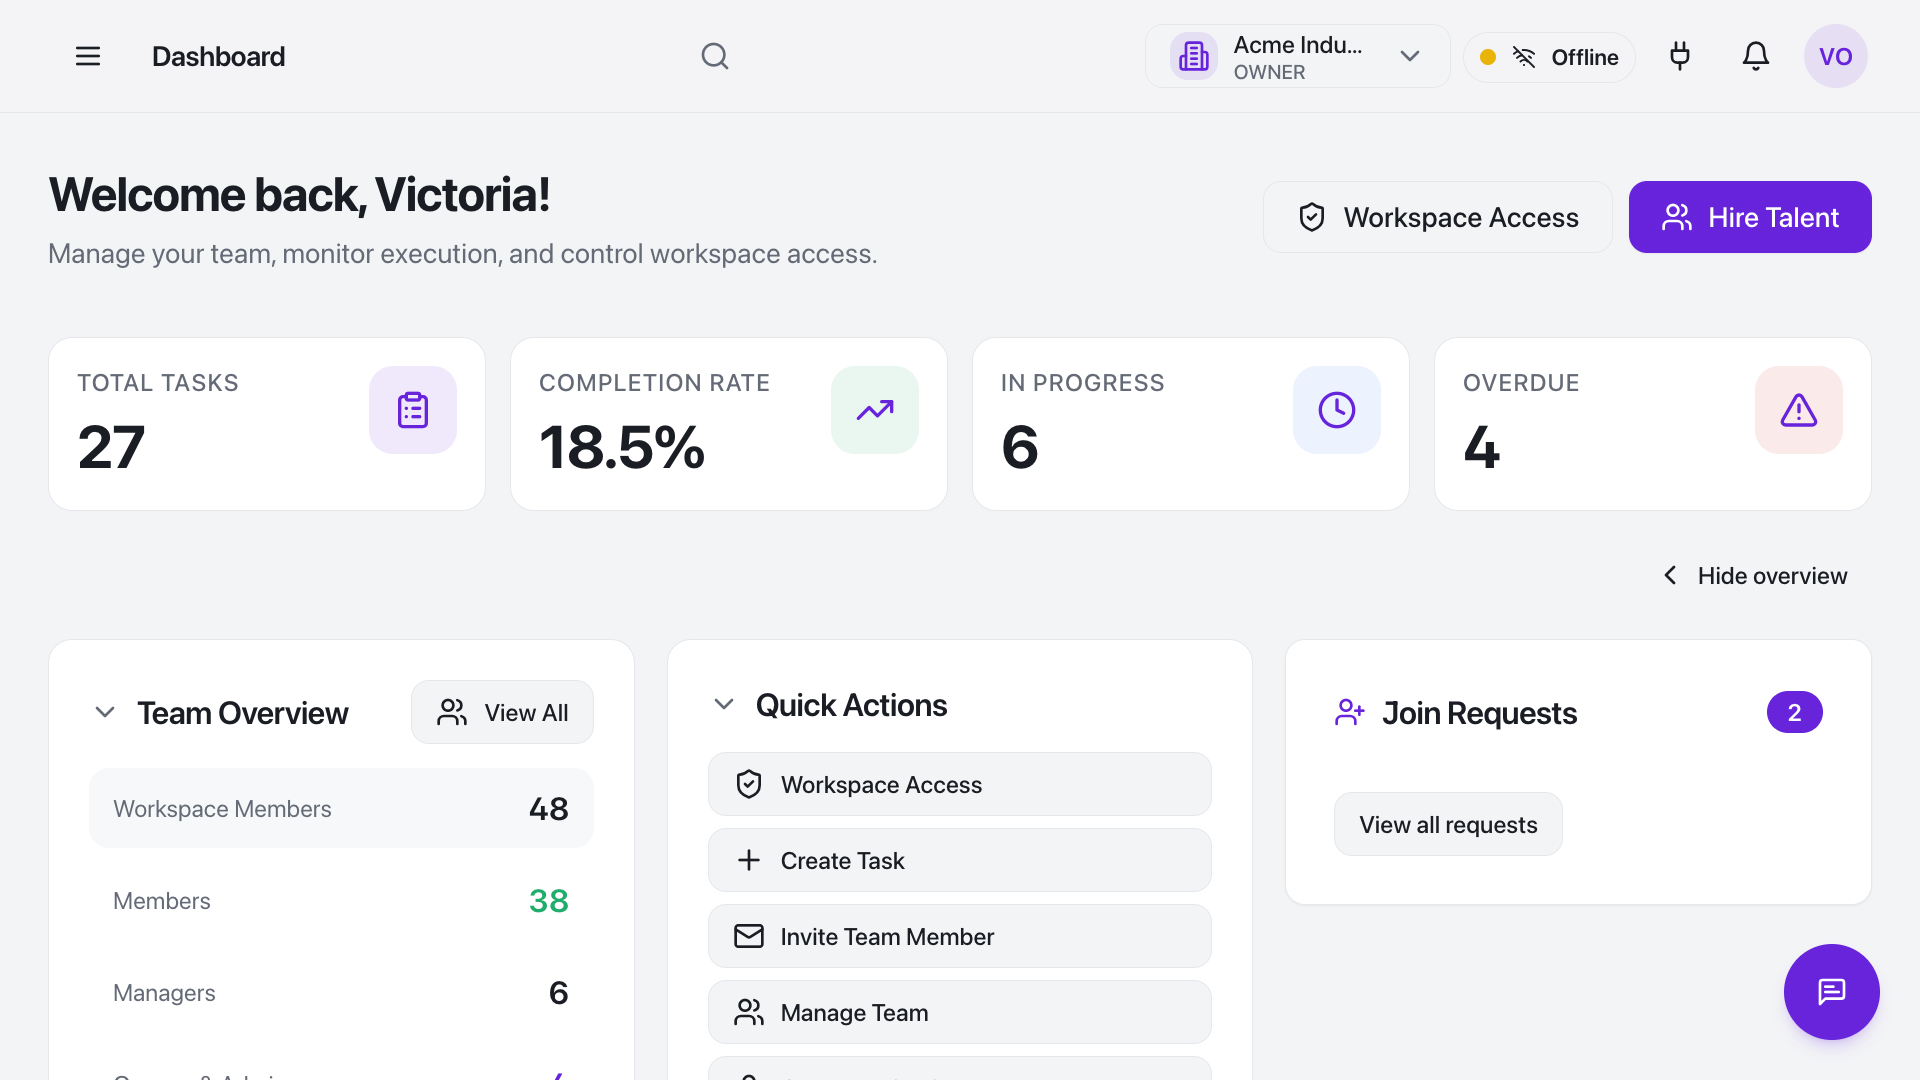
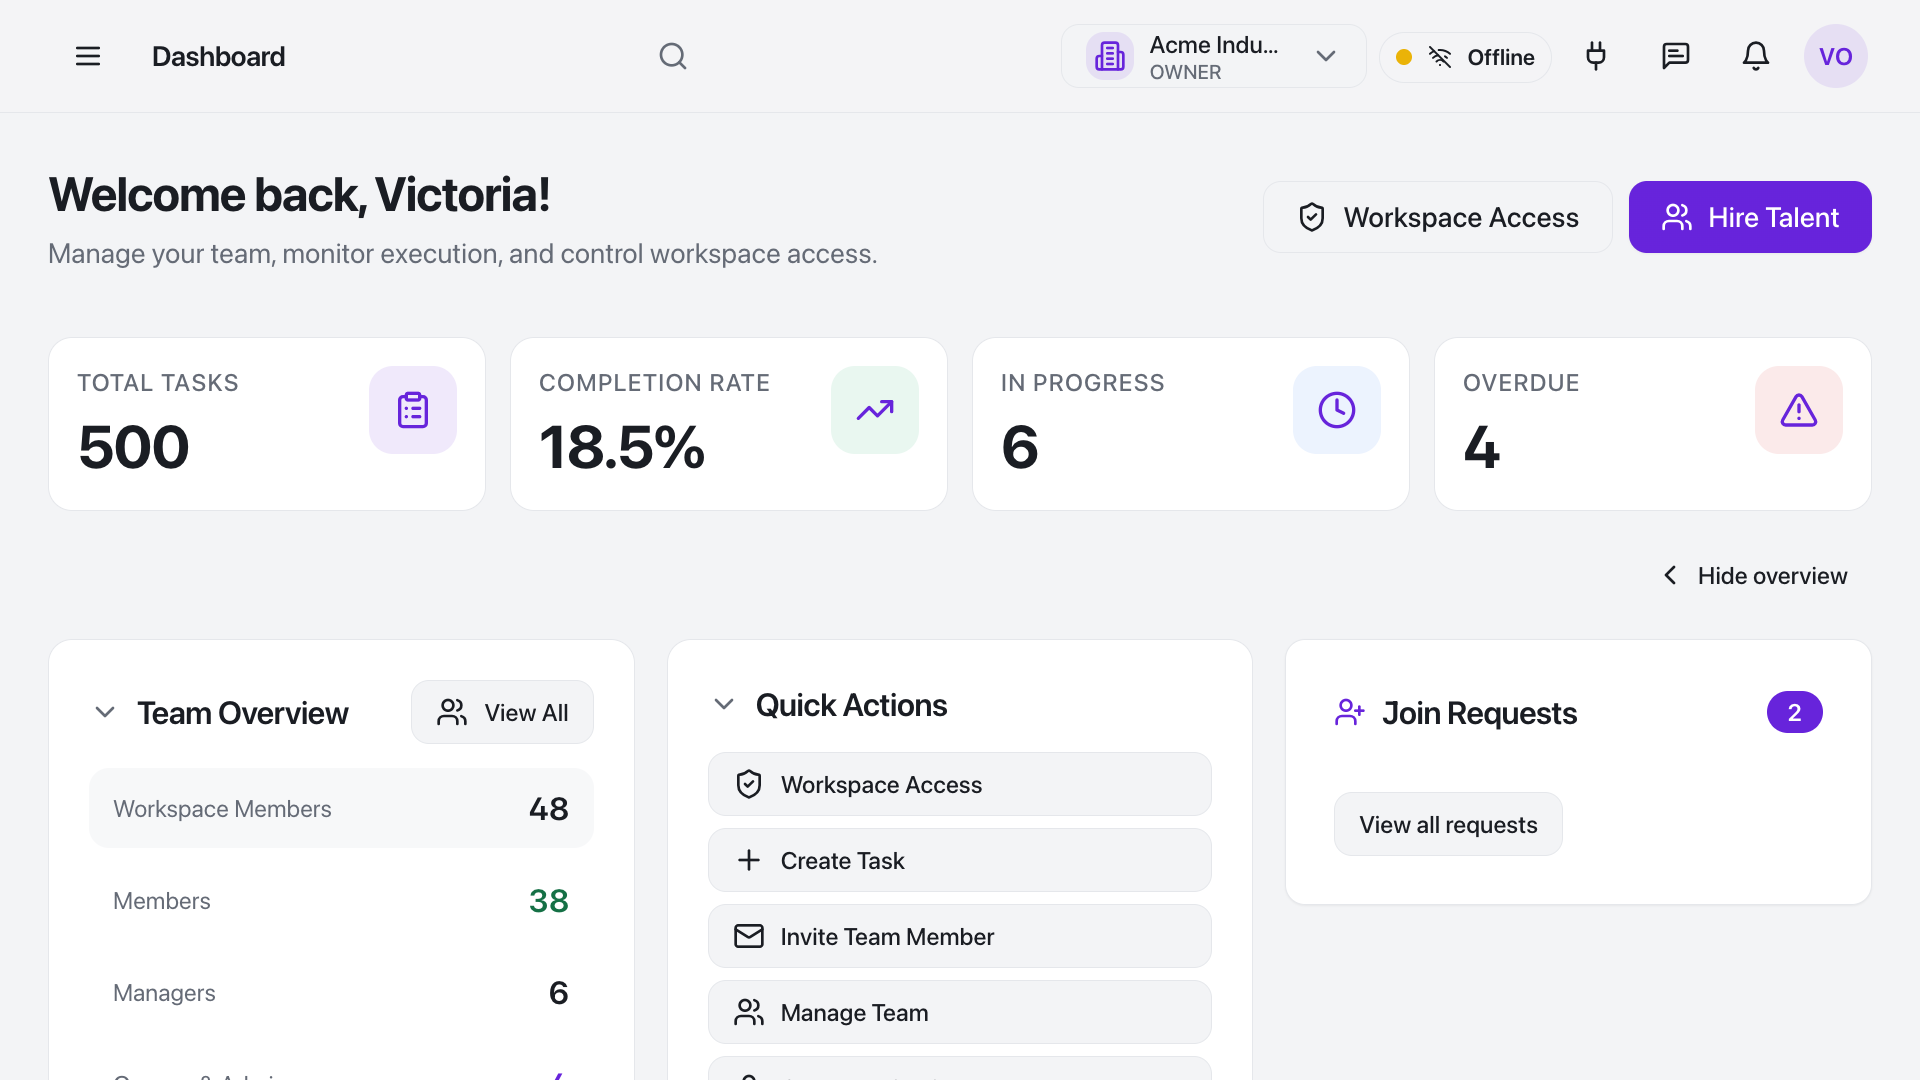
fix(layout): dock Support in the header; Board, Profile and status fixes; evidence
- Support trigger is now an inline header action (no fixed overlay, so it cannot cover task
  controls); focus-nudge workaround and bottom clearance removed. Floating variant remains
  only for the header-less suspended-workspace page.
- Board columns use rem widths and wrap their header (count badge no longer spills at large text).
- Profile grid uses minmax(0,1fr) and wrapping values (long values overflowed the card).
- Inline status select shows unknown statuses (in_review, on_hold...) instead of a blank control.
- tests: board-page widths updated.
- docs/responsive-remediation: final screenshots, states, roles, smoke JSON, README.

diff --git a/src/components/support/SupportLauncher.tsx b/src/components/support/SupportLauncher.tsx
@@ -18,25 +18,8 @@ type View = "home" | "chat" | "escalate" | "requests" | "ticket";
 const STATUS_LABEL: Record<string, string> = { received: "Received", in_review: "In review", waiting_on_user: "Waiting on you", in_progress: "In progress", resolved: "Resolved", closed: "Closed" };
 const STATUS_STYLE: Record<string, string> = { received: "bg-blue-500/10 text-blue-700", in_review: "bg-violet-500/10 text-violet-700", waiting_on_user: "bg-amber-500/10 text-amber-700", in_progress: "bg-primary/10 text-primary", resolved: "bg-emerald-500/10 text-emerald-700", closed: "bg-muted text-muted-foreground" };
 
-export default function SupportLauncher() {
-  const launcherRef = useRef<HTMLButtonElement>(null);
-  // WCAG 2.4.11 Focus Not Obscured: this launcher floats over page content, so when keyboard focus lands on a control that
-  // sits underneath it, scroll the page just far enough to bring that control clear of the launcher.
-  useEffect(() => {
-    const onFocusIn = (event: FocusEvent) => {
-      const launcher = launcherRef.current;
-      const target = event.target;
-      if (!launcher || !(target instanceof HTMLElement) || launcher.contains(target) || target.closest("[role=dialog],[role=alertdialog]")) return;
-      requestAnimationFrame(() => {
-        const fab = launcher.getBoundingClientRect();
-        const box = target.getBoundingClientRect();
-        const overlaps = box.right > fab.left && box.left < fab.right && box.bottom > fab.top && box.top < fab.bottom;
-        if (overlaps) window.scrollBy({ top: box.bottom - fab.top + 8 });
-      });
-    };
-    document.addEventListener("focusin", onFocusIn);
-    return () => document.removeEventListener("focusin", onFocusIn);
-  }, []);
+/** `inline` docks the trigger into the page header (no overlap with content); `floating` is the fixed corner button for pages without a header. */
+export default function SupportLauncher({ placement = "floating" }: { placement?: "floating" | "inline" } = {}) {
   const { user } = useAuth();
   const location = useLocation();
   const { toast } = useToast();
@@ -149,7 +132,7 @@ export default function SupportLauncher() {
   const back = () => { if (view === "ticket") setView("requests"); else setView("home"); };
 
   return <>
-    <TooltipProvider delayDuration={250}><Tooltip><TooltipTrigger asChild><Button ref={launcherRef} type="button" aria-label="Open Admiino AI & Support" onClick={() => { setOpen(true); if (view === "home") setView("home"); }} className="fixed bottom-5 right-5 z-40 h-12 gap-2 rounded-full px-4 shadow-lg shadow-primary/20 transition-transform hover:-translate-y-0.5"><MessageSquareText className="h-5 w-5" /><span className="hidden 2xl:inline">Support</span>{unreadCount > 0 && <span className="flex h-5 min-w-5 items-center justify-center rounded-full bg-destructive px-1 text-[0.625rem] font-semibold text-destructive-foreground">{unreadCount}</span>}</Button></TooltipTrigger><TooltipContent side="left">Admiino AI &amp; Support</TooltipContent></Tooltip></TooltipProvider>
+    <TooltipProvider delayDuration={250}><Tooltip><TooltipTrigger asChild><Button type="button" aria-label="Open Admiino AI & Support" onClick={() => { setOpen(true); if (view === "home") setView("home"); }} variant={placement === "inline" ? "ghost" : "default"} className={placement === "inline" ? "relative h-9 gap-2 px-2.5 xl:px-3" : "fixed bottom-5 right-5 z-40 h-12 gap-2 rounded-full px-4 shadow-lg shadow-primary/20 transition-transform hover:-translate-y-0.5"}><MessageSquareText className="h-5 w-5" /><span className={placement === "inline" ? "hidden xl:inline" : "hidden 2xl:inline"}>Support</span>{unreadCount > 0 && <span className={`flex h-5 min-w-5 items-center justify-center rounded-full bg-destructive px-1 ${placement === "inline" ? "absolute -right-0.5 -top-0.5" : ""} text-[0.625rem] font-semibold text-destructive-foreground`}>{unreadCount}</span>}</Button></TooltipTrigger><TooltipContent side={placement === "inline" ? "bottom" : "left"}>Admiino AI &amp; Support</TooltipContent></Tooltip></TooltipProvider>
     <Sheet open={open} onOpenChange={setOpen}><SheetContent side="right" className="flex h-[100dvh] w-full flex-col gap-0 p-0 sm:max-w-[min(30rem,100vw)]">
       <SheetHeader className="border-b px-5 py-4 pr-12 text-left"><div className="flex items-center gap-3"><div className="flex h-10 w-10 items-center justify-center rounded-xl bg-primary/10 text-primary"><Sparkles className="h-5 w-5" /></div><div><SheetTitle>Admiino AI</SheetTitle><SheetDescription>How can I help?</SheetDescription></div></div><p className="mt-3 text-sm text-muted-foreground">Ask about Admiino, troubleshoot a problem, or contact our support team.</p></SheetHeader>
       {view !== "home" && <div className="flex items-center gap-2 border-b px-4 py-2"><Button variant="ghost" size="sm" onClick={back} aria-label="Back to support"><ArrowLeft className="mr-1 h-4 w-4" />Back</Button><span className="truncate text-xs text-muted-foreground">{view === "chat" ? "Ask Admiino AI" : view === "escalate" ? "Contact Support" : view === "requests" ? "My support requests" : ticket?.ticketNumber}</span></div>}

diff --git a/src/components/dashboard/TaskComponents.tsx b/src/components/dashboard/TaskComponents.tsx
@@ -73,8 +73,10 @@ export const getStatusDisplay = (status: string) => {
     completed: "Completed",
     delayed: "Delayed",
     cancelled: "Cancelled",
+    in_review: "In Review",
   };
-  return m[status] || status;
+  // Unknown statuses are shown readably rather than as a raw key.
+  return m[status] || String(status ?? "").replace(/_/g, " ").replace(/\b\w/g, (c) => c.toUpperCase());
 };
 
 export const getPriorityDisplay = (priority: string) =>
@@ -83,17 +85,17 @@ export const getPriorityDisplay = (priority: string) =>
 export const getStatusBadgeClass = (status: string) => {
   switch (status) {
     case "completed":
-      return "bg-success/10 text-success border-success/20";
+      return "bg-success/10 text-success-text border-success/20";
     case "in_progress":
     case "active":
       return "bg-primary/10 text-primary border-primary/20";
     case "pending":
     case "planning":
-      return "bg-warning/10 text-warning border-warning/20";
+      return "bg-warning/10 text-warning-text border-warning/20";
     case "delayed":
-      return "bg-destructive/10 text-destructive border-destructive/20";
+      return "bg-destructive/10 text-destructive-text border-destructive/20";
     case "on_hold":
-      return "bg-info/10 text-info border-info/20";
+      return "bg-info/10 text-info-text border-info/20";
     case "cancelled":
       return "bg-muted text-muted-foreground";
     default:
@@ -105,11 +107,11 @@ export const getPriorityBadgeClass = (priority: string) => {
   switch (priority) {
     case "high":
     case "urgent":
-      return "bg-destructive/10 text-destructive border-destructive/20";
+      return "bg-destructive/10 text-destructive-text border-destructive/20";
     case "medium":
-      return "bg-warning/10 text-warning border-warning/20";
+      return "bg-warning/10 text-warning-text border-warning/20";
     case "low":
-      return "bg-info/10 text-info border-info/20";
+      return "bg-info/10 text-info-text border-info/20";
     default:
       return "bg-secondary text-secondary-foreground";
   }
@@ -242,6 +244,10 @@ export const InlineStatusSelect = ({
             {o.label}
           </SelectItem>
         ))}
+        {/* A status this control cannot set (e.g. in review) must still be displayed, not render a blank trigger. */}
+        {value && !STATUS_OPTIONS.some((o) => o.value === value) && (
+          <SelectItem value={value} disabled className="text-xs">{getStatusDisplay(value)}</SelectItem>
+        )}
       </SelectContent>
     </Select>
   );
@@ -447,7 +453,7 @@ export const TaskTable = ({
                         icon={Trash2}
                         label="Delete"
                         onClick={() => onDelete(task)}
-                        className="text-destructive hover:text-destructive"
+                        className="text-destructive-text hover:text-destructive-text"
                         disabled={isTaskReadOnlyForUser(task, user?.id) || (canDelete ? !canDelete(task) : false)}
                         disabledReason="You don't have permission to delete this task"
                       />
@@ -613,7 +619,7 @@ export const TaskTable = ({
                   icon={Trash2}
                   label="Delete"
                   onClick={() => onDelete(task)}
-                  className="text-destructive hover:text-destructive"
+                  className="text-destructive-text hover:text-destructive-text"
                   disabled={isTaskReadOnlyForUser(task, user?.id) || (canDelete ? !canDelete(task) : false)}
                   disabledReason="You don't have permission to delete this task"
                 />

diff --git a/src/pages/Board.tsx b/src/pages/Board.tsx
@@ -176,7 +176,7 @@ export default function Board({ embeddedTasks, onEmbeddedTaskUpdated, hideEmbedd
           <select aria-label="Filter board by team" value={filters.teamId} onChange={(e) => setFilters({ ...filters, teamId: e.target.value })} className="h-9 rounded-md border px-2 text-sm"><option value="">All teams</option>{teams.map((team: any) => <option key={team.id} value={team.id}>{team.name}</option>)}</select>
         </>}
       </header>}
-      {isError && <p role="alert" className="m-4 text-sm text-destructive">Could not load board tasks. Please try again.</p>}
+      {isError && <p role="alert" className="m-4 text-sm text-destructive-text">Could not load board tasks. Please try again.</p>}
       <section
         aria-label="Task board"
         data-testid="board-grid"
@@ -188,11 +188,11 @@ export default function Board({ embeddedTasks, onEmbeddedTaskUpdated, hideEmbedd
             key={status}
             aria-label={`${STATUS_LABELS[status]} column`}
             data-testid={`board-panel-${status}`}
-            className={`flex h-full w-[min(86vw,290px)] min-w-[260px] max-w-[290px] shrink-0 snap-center flex-col overflow-hidden rounded-xl border border-t-4 shadow-sm ${accent.bar} ${accent.panel}`}
+            className={`flex h-full w-[min(86vw,18rem)] min-w-[min(16rem,86vw)] max-w-[18rem] shrink-0 snap-center flex-col overflow-hidden rounded-xl border border-t-4 shadow-sm ${accent.bar} ${accent.panel}`}
           >
-            <header className="flex shrink-0 items-center justify-between border-b border-black/5 bg-white/70 px-3 py-2.5 backdrop-blur">
-              <span className="flex items-center gap-2 font-semibold"><span className={`h-2.5 w-2.5 rounded-full ${accent.dot}`} aria-hidden="true" />{STATUS_LABELS[status]}</span>
-              <span aria-label={`${!embedded && (hasNextPage || isFetchingNextPage) ? "loading" : columns[status].length} tasks`} className={`min-w-[1.75rem] rounded-full px-2 py-0.5 text-center text-xs font-semibold tabular-nums ${accent.badge}`}>{!embedded && (hasNextPage || isFetchingNextPage) ? "…" : columns[status].length}</span>
+            <header className="flex shrink-0 flex-wrap items-center justify-between gap-x-2 gap-y-1 border-b border-black/5 bg-white/70 px-3 py-2.5 backdrop-blur">
+              <span className="flex min-w-0 items-center gap-2 font-semibold"><span className={`h-2.5 w-2.5 shrink-0 rounded-full ${accent.dot}`} aria-hidden="true" />{STATUS_LABELS[status]}</span>
+              <span aria-label={`${!embedded && (hasNextPage || isFetchingNextPage) ? "loading" : columns[status].length} tasks`} className={`min-w-[1.75rem] shrink-0 rounded-full px-2 py-0.5 text-center text-xs font-semibold tabular-nums ${accent.badge}`}>{!embedded && (hasNextPage || isFetchingNextPage) ? "…" : columns[status].length}</span>
             </header>
             <div data-testid={`board-scroll-${status}`} className="min-h-0 flex-1 space-y-2.5 overflow-y-auto overscroll-contain p-2.5">
               {isLoading ? <p className="p-2 text-sm text-muted-foreground">Loading…</p> : columns[status].length === 0 ? <p className="rounded-lg border border-dashed bg-white/60 p-4 text-center text-sm text-muted-foreground">No tasks</p> : columns[status].map((task) => {

diff --git a/src/test/board-page.test.tsx b/src/test/board-page.test.tsx
@@ -156,8 +156,8 @@ describe("Board page", () => {
     const grid = await screen.findByTestId("board-grid");
     expect(grid.className).toContain("overflow-x-auto");
     expect(grid.closest("main")!.className).toContain("overflow-hidden");
-    expect(screen.getByTestId("board-panel-pending").className).toContain("min-w-[260px]");
-    expect(screen.getByTestId("board-panel-pending").className).toContain("max-w-[290px]");
+    expect(screen.getByTestId("board-panel-pending").className).toContain("min-w-[min(16rem,86vw)]");
+    expect(screen.getByTestId("board-panel-pending").className).toContain("max-w-[18rem]");
     const order = Array.from(grid.children).map((el) => el.getAttribute("data-testid"));
     expect(order).toEqual(["pending", "in_progress", "in_review", "completed", "delayed", "cancelled"].map((s) => `board-panel-${s}`));
     for (const status of ["pending", "in_progress", "in_review", "completed", "delayed", "cancelled"]) {
@@ -175,7 +175,7 @@ describe("Board page", () => {
     const grid = await screen.findByTestId("board-grid");
     expect(grid.className).toContain("overflow-x-auto");
     expect(grid.className).toContain("snap-x");
-    expect(screen.getByTestId("board-panel-pending").className).toContain("w-[min(86vw,290px)]");
+    expect(screen.getByTestId("board-panel-pending").className).toContain("w-[min(86vw,18rem)]");
   });
 
   it("loads every task page instead of truncating the board at the first 100", async () => {

diff --git a/src/components/dashboard/DashboardLayout.tsx b/src/components/dashboard/DashboardLayout.tsx
@@ -833,7 +833,7 @@ const DashboardLayout = ({
                   setMobileOpen(false);
                 }}
                 className={cn(
-                  "flex items-center gap-3 px-3 py-2 rounded-lg text-[0.8125rem] transition-all duration-200 text-destructive hover:bg-destructive/10 w-full",
+                  "flex items-center gap-3 px-3 py-2 rounded-lg text-[0.8125rem] transition-all duration-200 text-destructive-text hover:bg-destructive/10 w-full",
                   !sidebarOpen && "justify-center px-2"
                 )}
               >
@@ -952,6 +952,8 @@ const DashboardLayout = ({
 
                 <IntegrationsDropdown />
 
+                <SupportLauncher placement="inline" />
+
                 <NotificationsDropdown />
 
                 <AccountMenu />
@@ -962,8 +964,7 @@ const DashboardLayout = ({
           <main
             className={cn(
               "flex-1 min-w-0",
-              // pb-24: leave room under the last row for the floating Support launcher.
-              !hidePadding && "p-4 pb-24 sm:p-6 sm:pb-24",
+              !hidePadding && "p-4 sm:p-6",
               !fullWidth && "max-w-[1400px] mx-auto w-full"
             )}
           >
@@ -971,7 +972,6 @@ const DashboardLayout = ({
           </main>
         </div>
       </div>
-      <SupportLauncher />
     </TooltipProvider>
   );
 };

diff --git a/src/pages/Profile.tsx b/src/pages/Profile.tsx
@@ -90,8 +90,8 @@ const Field = ({ label, children }: { label: string; children: ReactNode }) => (
 
 const InfoRow = ({ label, value }: { label: string; value: ReactNode }) => (
   <div className="flex items-center justify-between gap-3 py-2.5 border-b border-border/50 last:border-0">
-    <span className="text-sm text-muted-foreground">{label}</span>
-    <span className="text-sm font-medium text-foreground text-right">{value}</span>
+    <span className="shrink-0 text-sm text-muted-foreground">{label}</span>
+    <span className="min-w-0 text-sm font-medium text-foreground text-right [overflow-wrap:anywhere]">{value}</span>
   </div>
 );
 
@@ -404,7 +404,7 @@ const Profile = ({ embedded = false }: { embedded?: boolean }) => {
         </Card>
 
         {/* ── Two-column layout on md+ ── */}
-        <div className="grid gap-5 md:grid-cols-2">
+        <div className="grid grid-cols-[minmax(0,1fr)] gap-5 md:grid-cols-2">
 
           {/* LEFT ── Contact & about */}
           <div className="space-y-5">

diff --git a/docs/responsive-remediation/README.md b/docs/responsive-remediation/README.md
@@ -1,24 +1,31 @@
 # User Portal responsive and accessibility remediation: verification
 
-Branch `feature/portal-responsive-accessibility` (from `staging`). Frontend only. Verified locally against a **mock API with fake data** (no real API, credentials or backend touched).
+Branch `feature/portal-responsive-accessibility` (from `staging`). Frontend only. All verification ran locally in real Chrome against a **mock API with sanitized fixtures** (no real API, credentials or customer data).
 
-## How zoom, viewport and font size were emulated (they are different things)
-| Setting | Emulation | Effect |
-|---|---|---|
-| Browser page zoom Z | window W×H, CSS viewport (W/Z)×(H/Z), devicePixelRatio Z | fewer CSS px, everything scales |
-| Reduced window | CSS viewport only | fewer CSS px |
-| Browser default font size | Chrome profile pref `default_font_size` (24px / 32px), viewport unchanged | rem grows, `rem` media queries move, px does not |
+## Emulation (zoom, window size and font size are different things)
+| Setting | Emulation |
+|---|---|
+| Browser page zoom Z | window W×H → CSS viewport (W/Z)×(H/Z), devicePixelRatio Z |
+| Reduced window | CSS viewport only |
+| Browser default font size | Chrome profile pref `default_font_size` 24px / 32px (moves rem, rem media queries) |
 
-Effective dimensions are in `before/` and `after/` filenames; exact values: 1920×1080 at 67/100/110/125/150/175/200% = 2866, 1920, 1745, 1536, 1280, 1097, 960 CSS px wide.
+1920×1080 at 67/100/110/125/150/175/200% = 2866/1920/1745/1536/1280/1097/960 CSS px wide.
+
+## Fixtures (sanitized)
+500 tasks; 40 projects (some with 80-char names); long user names (e.g. 40 chars) and a 75-char workspace name; 1-3 assignees per task; statuses pending / in_progress / in_review / completed / delayed / cancelled / on_hold / blocked_by_vendor; owner / admin / manager / member roles; empty and delayed-loading states.
 
 ## Screenshots
-`before/` = pristine `staging`; `after/` = this branch. Same names: `1920-z100`, `1920-z125`, `1920-z150`, `1920-z200`, `1280-z100`, `1024`, `768`, `390`, `320`, `1920-font200` (real 32px default font).
+`before/` = pristine `staging`; `after/` = final branch (same names). `states/` = empty and loading. `roles/` = admin, manager, member.
 
 ## Results
-- Dashboard interaction suite (filters, search, pagination, row actions, drawer, dialogs, sidebar collapse/drawer, account menu, 30-stop keyboard walk, 5 s idle request-loop check, console errors) passes at 1920, 1536, 1366, 1280, 1024, 960, 768, 390, 320 CSS px. Only known exception: the Support launcher can float over a row action while scrolling (focus is auto-nudged clear).
-- Route smoke (`route-smoke-*.json`): 32 routes × 4 settings (1280, 200% zoom, 390, 200% default font). Detectors: horizontal overflow outside scroll regions, text spilling out of its box, controls covered by other elements, crashes.
-- axe-core (WCAG 2.0/2.1/2.2 A+AA tags) on Dashboard, Projects, Time, Workload, Calendar, All Tasks at 1280 and 390: button-name 390 → 0, target-size 63 → 0, aria-allowed-attr 6 → 0, link-name 1 → 0, color-contrast 176 → 126.
-- tsc: 38 errors before and after. eslint: 1077 problems before and after. vitest: same failing set as `staging` (connected-storage-comments, phase5b-workspace, build-environment script).
+| Check | Result |
+|---|---|
+| axe-core WCAG 2.0/2.1/2.2 A+AA, 6 pages × 2 widths, light theme (large fixture) | previous commit 1,638 colour-contrast (+0 other) → **0** |
+| same, dark theme, Dashboard | 15 → 8 (all remaining are `text-primary`, not badge colours) |
+| Support launcher (88 checks: 100/125/150/200% zoom, 1024/768 tablet, 390/320 mobile; mouse, touch tap, keyboard; scrolled list, open dropdown, open dialog) | 88 pass / 0 fail |
+| Dashboard interaction suite at 9 sizes (filters, search, pagination, row actions, drawer, dialog, sidebar, menu, 30-stop keyboard walk, request loop, console) | 0 failures |
+| Table/card switching (9 widths, rail shown/hidden) | correct and exclusive; no page h-scroll |
+| 32-route smoke × 4 settings (1280, 200% zoom, 390, 200% font) = 128 | 128 clean (no overflow, spilled text, covered control, crash) |
 
-## Known limitations
-See the final report: badge colour contrast, Support launcher overlap, removed rail drag-resize, mock-data caveats.
+## Not covered
+Firefox (not installed) and Safari (installed, but automation needs the user to enable Develop → Allow Remote Automation). Only Chrome was exercised.
